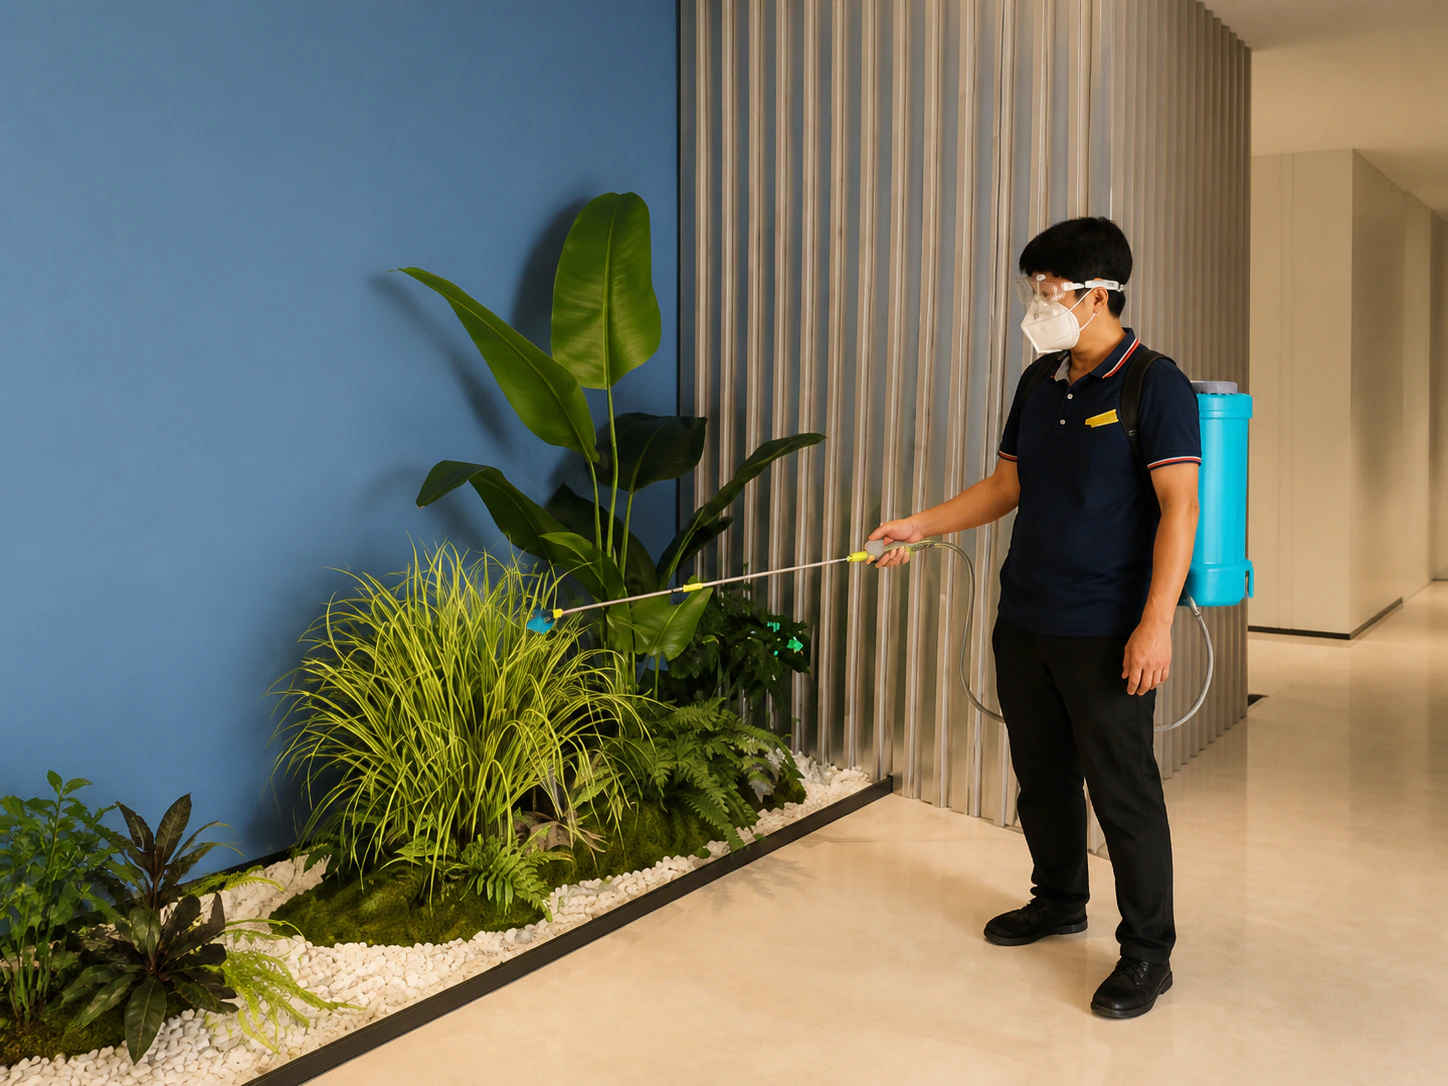
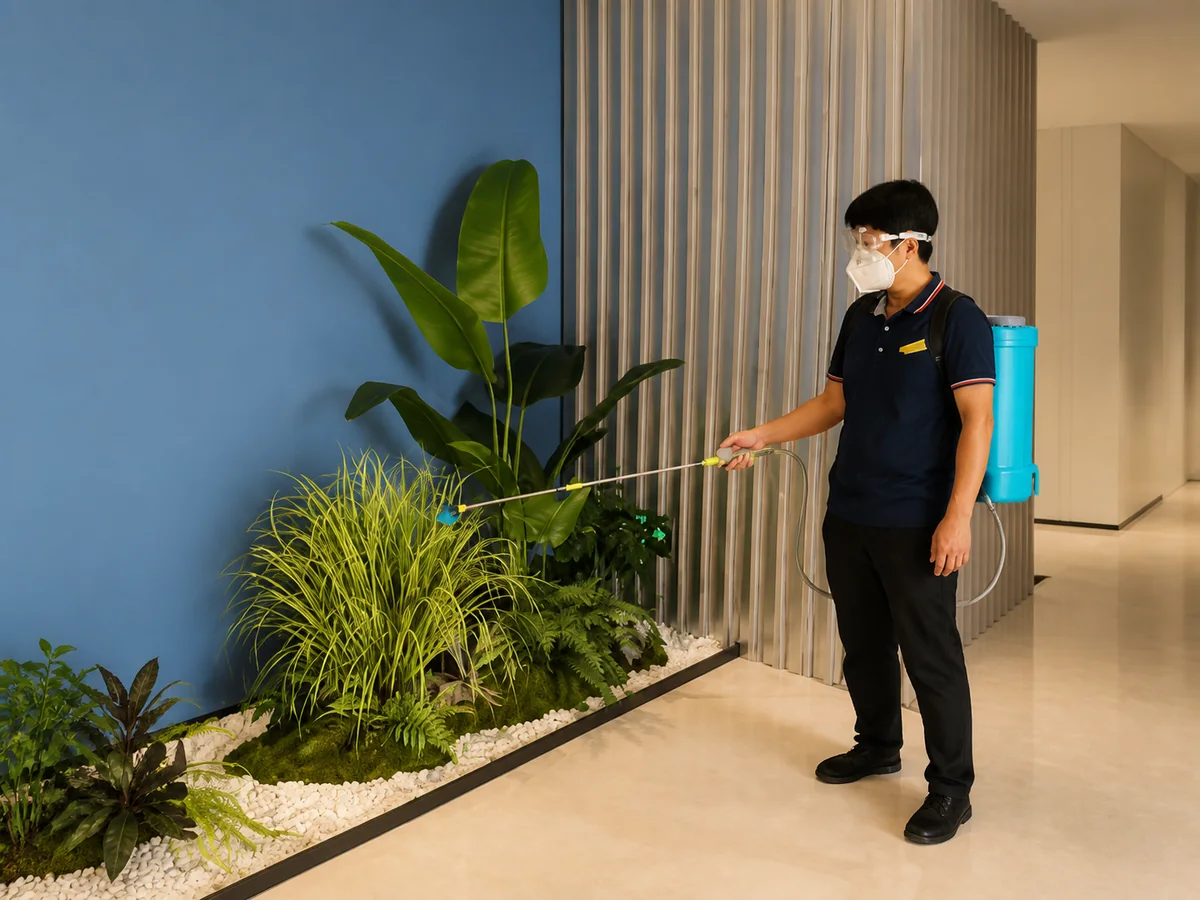
优化移动端图片与停车二维码指引

diff --git a/app/globals.css b/app/globals.css
@@ -134,9 +134,9 @@ img { display: block; max-width: 100%; }
 .security-story-copy h3,.tight-copy h3 { margin: 0 0 13px; font-size: 22px; font-weight: 600; line-height: 1.4; }
 .security-story-copy p,.tight-copy p { margin: 0; color: #4f575b; font-size: 16px; line-height: 2.05; }
 .security-photo-composition { grid-column: 2; width: 100%; margin: 0; padding: 0 7% 0 0; }
-.security-photo-composition > img { position: relative; z-index: 2; width: 100%; max-height: 620px; object-fit: cover; }
+.security-photo-composition > img { position: relative; z-index: 2; display: block; width: 100%; max-height: 620px; object-fit: cover; }
 .security-photo-composition > div { position: absolute; z-index: 1; right: 0; top: 16%; width: 34%; height: 78%; background: #ececea; }
-.monitoring-composition > img { aspect-ratio: 16/10; object-position: center; }
+.monitoring-composition > img { aspect-ratio: 3/2; object-position: center; }
 .tight-story { grid-template-columns: minmax(0,1.08fr) minmax(0,.92fr); border-top: 1px solid var(--line); }
 .tight-story .security-story-head { width: 100%; padding-top: 85px; }
 .tight-copy { grid-column: 2; grid-row: 2; width: auto; margin: 0; display: grid; gap: 30px; }
@@ -145,7 +145,7 @@ img { display: block; max-width: 100%; }
 .tight-composition > img { aspect-ratio: 4/3; object-position: center; }
 .tight-composition > div { left: 0; right: auto; top: 18%; }
 .equipment-story { border-top: 1px solid var(--line); }
-.equipment-composition > img { aspect-ratio: 16/10; object-position: center; }
+.equipment-composition > img { aspect-ratio: 3/2; object-position: center; }
 
 .service-block { display: grid; grid-template-columns: 1.35fr .85fr; min-height: 520px; margin-bottom: 42px; border: 1px solid var(--line); background: #fff; }
 .service-block.reverse { grid-template-columns: .85fr 1.35fr; }.service-block.reverse .service-photo { order: 2; }
@@ -175,7 +175,7 @@ img { display: block; max-width: 100%; }
 .route-page { padding-bottom: 115px; }.route-page .section-title { margin-bottom: 50px; }
 .route-selector { position: sticky; z-index: 15; top: 82px; display: grid; grid-template-columns: repeat(3,1fr); border: 1px solid var(--line); background: #fff; box-shadow: 0 8px 20px rgba(24,34,40,.06); }.route-selector.four-items { grid-template-columns: repeat(4,1fr); }.route-selector button { min-height: 72px; display: flex; justify-content: center; align-items: center; gap: 14px; color: var(--muted); border: 0; border-right: 1px solid var(--line); background: #fff; cursor: pointer; font-size: 14px; }.route-selector button:last-child { border: 0; }.route-selector button span { font: 600 10px/1 Arial,sans-serif; color: var(--gold); }.route-selector button.active { color: #fff; background: var(--brown); }
 .parking-access-section { margin-top: 70px; }.subsection-heading { display: grid; grid-template-columns: .7fr 1fr; align-items: end; margin-bottom: 35px; }.subsection-heading > span { grid-column: 1/-1; }.subsection-heading p { margin: 0; color: var(--muted); font-size: 13px; text-align: right; }.subsection-heading h2 { font-size: var(--heading); }
-.parking-access-grid { display: grid; grid-template-columns: repeat(2,1fr); gap: 22px; }.parking-access-grid article { padding: 24px; border: 1px solid var(--line); background: #faf9f7; }.parking-access-grid article > div { aspect-ratio: 16/7; overflow: hidden; margin-bottom: 24px; background: #e9e7e2; }.parking-access-grid img { width: 100%; height: 100%; object-fit: contain; }.parking-access-grid article > span { color: var(--gold); font: 600 9px/1 Arial,sans-serif; letter-spacing: .2em; }.parking-access-grid h3 { margin: 13px 0 19px; font-size: var(--subheading); font-weight: 400; }.parking-access-grid ol { margin: 0; padding: 0; list-style: none; counter-reset: item; }.parking-access-grid li { position: relative; min-height: 34px; padding: 8px 0 8px 34px; border-top: 1px solid var(--line); color: var(--muted); font-size: 11px; line-height: 1.6; counter-increment: item; }.parking-access-grid li::before { content: counter(item,decimal-leading-zero); position: absolute; left: 0; color: var(--brown); font: 600 9px/1.6 Arial,sans-serif; }
+.parking-access-grid { display: grid; grid-template-columns: repeat(2,1fr); gap: 22px; }.parking-access-grid article { padding: 24px; border: 1px solid var(--line); background: #faf9f7; }.parking-access-media { aspect-ratio: 16/7; overflow: hidden; margin-bottom: 24px; background: #e9e7e2; }.parking-access-grid article.has-clear-image > .parking-access-media { aspect-ratio: 16/9; }.parking-access-grid img { display: block; width: 100%; height: 100%; object-fit: contain; }.parking-clear-link { display: grid; grid-template-rows: minmax(0,1fr) 44px; width: 100%; height: 100%; color: inherit; text-decoration: none; }.parking-clear-link img { min-height: 0; }.parking-clear-cta { display: flex; align-items: center; justify-content: center; min-height: 44px; padding: 8px 12px; color: #fff; background: var(--brown); font-size: 11px; line-height: 1.35; letter-spacing: .04em; text-align: center; }.parking-clear-link:hover .parking-clear-cta { background: #6d4b38; }.parking-clear-link:focus-visible { outline: 3px solid var(--gold); outline-offset: -3px; }.parking-access-grid article > span { color: var(--gold); font: 600 9px/1 Arial,sans-serif; letter-spacing: .2em; }.parking-access-grid h3 { margin: 13px 0 19px; font-size: var(--subheading); font-weight: 400; }.parking-access-grid ol { margin: 0; padding: 0; list-style: none; counter-reset: item; }.parking-access-grid li { position: relative; min-height: 34px; padding: 8px 0 8px 34px; border-top: 1px solid var(--line); color: var(--muted); font-size: 11px; line-height: 1.6; counter-increment: item; }.parking-access-grid li::before { content: counter(item,decimal-leading-zero); position: absolute; left: 0; color: var(--brown); font: 600 9px/1.6 Arial,sans-serif; }
 .parking-zone-panel { margin-top: 70px; padding: 34px; border: 1px solid var(--line); background: #faf9f7; }
 .parking-zone-heading { display: flex; justify-content: space-between; align-items: end; gap: 50px; margin-bottom: 28px; }
 .parking-zone-heading span { display: block; margin-bottom: 14px; color: var(--gold); font: 600 10px/1.2 Arial,sans-serif; letter-spacing: .25em; }
@@ -263,7 +263,7 @@ footer { padding: 60px 0; color: rgba(255,255,255,.6); background: #101f24; }.fo
   .section-title { display: grid; gap: 20px; }.section-title > p { width: 100%; }.content-section { padding-block: 75px; }.inner-nav { grid-template-columns: 1fr 1fr; margin-top: 35px; }.inner-nav.three-items { grid-template-columns: 1fr; }.inner-nav a:nth-child(2) { border-right: 0; }.inner-nav a:nth-child(-n+2) { border-bottom: 1px solid var(--line); }.inner-nav.three-items a { border-right: 0; border-bottom: 1px solid var(--line); }
   .project-about { padding: 68px 0 34px; }.project-about::before { background-size: 50% 100%; }.project-landmark-feature { margin-inline: -19px; }.project-landmark-heading { left: 19px; top: 70px; width: 58%; min-height: 0; transform: none; }.project-landmark-heading > strong { left: -4px; top: -38px; font-size: 50px; line-height: .82; }.project-landmark-heading > span { font-size: 9px; }.project-landmark-heading h2 { font-size: 34px; }.project-landmark-photo { height: 520px; margin: 0; }.project-landmark-photo img { object-position: 68% center; }.project-landmark-stats { width: calc(100% - 20px); grid-template-columns: repeat(3,minmax(0,1fr)); margin: -56px auto 0; }.project-landmark-stats > div { min-height: 112px; gap: 10px; padding: 18px 6px; }.project-landmark-stats strong { font-size: clamp(22px,7.2vw,27px); }.project-landmark-stats small { margin-left: 3px; }.project-landmark-stats span { font-size: 10px; letter-spacing: .08em; }.project-about-copy { width: 100%; margin-top: 42px; padding-top: 22px; border-top: 1px solid var(--line); }.project-about-copy p { font-size: 14px; line-height: 2; text-align: left; }
   .building-section { padding: 40px 0 80px; }.building-welcome { grid-template-columns: 1fr; gap: 35px; }.building-welcome p { width: 80%; }.building-welcome > div:last-child::after { font-size: 76px; top: -30px; }.building-card { grid-template-columns: 1fr; border-radius: 16px; }.building-visual { min-height: 620px; padding-inline: 24px; }.tower-wrap { height: 500px; }.building-overview { padding: 44px 22px 35px; }.floor-row,.office-title,.refuge-row { grid-template-columns: 1.1fr 1.5fr 1fr; padding-inline: 8px; }.office-zones { grid-template-columns: 1fr 1fr; }.office-zones div:nth-child(2) { border-right: 0; }.office-zones div:nth-child(-n+2) { border-bottom: 1px solid #d9e8f6; }
-  .security-story,.tight-story { grid-template-columns: 1fr; row-gap: 36px; padding-block: 80px; }.security-watermark { left: 2%; top: 30px; font-size: 52px; }.security-story-head,.tight-story .security-story-head { grid-column: 1; width: 100%; margin-left: 0; padding: 72px 0 0; }.security-story-head h2 { font-size: 30px; }.security-story-copy,.tight-copy { grid-column: 1; grid-row: auto; width: 100%; margin: 0; gap: 30px; }.security-story-copy p,.tight-copy p { font-size: 14px; }.security-photo-composition,.tight-composition { grid-column: 1; grid-row: auto; width: 100%; margin: 0; padding: 0 8% 0 0; }.tight-composition { padding: 0 0 0 8%; }.security-photo-composition > div { width: 38%; }
+  .security-story,.tight-story { grid-template-columns: 1fr; row-gap: 36px; padding-block: 80px; }.security-watermark { left: 2%; top: 30px; font-size: 52px; }.security-story-head,.tight-story .security-story-head { grid-column: 1; width: 100%; margin-left: 0; padding: 72px 0 0; }.security-story-head h2 { font-size: 30px; }.security-story-copy,.tight-copy { grid-column: 1; grid-row: auto; width: 100%; margin: 0; gap: 30px; }.security-story-copy p,.tight-copy p { font-size: 14px; }.security-photo-composition,.tight-composition { grid-column: 1; grid-row: auto; width: 100%; margin: 0; padding: 0; }.security-photo-composition > div { width: 38%; }
   .service-block,.service-block.reverse,.service-block.compact-service { grid-template-columns: 1fr; min-height: 0; }.service-block.reverse .service-photo { order: 0; }.service-photo { min-height: 310px; }.premium-photo { min-height: 0; aspect-ratio: 16/10; }.compact-service .service-photo { min-height: 0; }.sanitation-photo { height: 290px; margin: 20px 18px 0; }.service-text { padding: 38px 26px; }.rainy-section { margin-top: 70px; padding: 75px 0; }.rainy-grid { grid-template-columns: 1fr; gap: 13px; }.rainy-grid article { min-height: 210px; grid-template-columns: 46% 54%; }.rainy-grid article > div { min-height: 210px; }.rainy-grid h3 { margin: 24px 16px 8px; }.rainy-grid p { padding: 0 16px 20px; }
   .route-page { padding-bottom: 80px; }.route-selector { top: 68px; display: flex; overflow-x: auto; grid-template-columns: none; scrollbar-width: none; }.route-selector.four-items { display: grid; grid-template-columns: repeat(2,minmax(0,1fr)); overflow: visible; }.route-selector::-webkit-scrollbar { display: none; }.route-selector button { flex: 0 0 45%; min-height: 60px; border-right: 1px solid var(--line); border-bottom: 0; white-space: nowrap; }.route-selector.four-items button { flex: none; white-space: normal; }.route-selector.four-items button:nth-child(2n) { border-right: 0; }.route-selector.four-items button:nth-child(-n+2) { border-bottom: 1px solid var(--line); }.route-selector button:last-child { border-right: 0; }.subsection-heading { grid-template-columns: 1fr; gap: 12px; }.subsection-heading p { text-align: left; }.parking-access-grid { grid-template-columns: 1fr; }.route-detail { margin-inline: -19px; padding: 40px 19px; }.route-detail-head { grid-template-columns: 1fr auto; gap: 20px; }.route-detail-head > p { grid-column: 1/-1; grid-row: 2; }.route-detail-head > div:last-child { grid-column: 2; grid-row: 1; }.route-slider article { flex-basis: calc(100vw - 52px); }.route-status { align-items: flex-start; flex-direction: column; }
   .parking-zone-panel { margin-top: 50px; padding: 22px 18px; }.parking-zone-heading { display: grid; gap: 15px; margin-bottom: 22px; }.parking-zone-heading p { width: 100%; text-align: left; }.parking-zone-selector { grid-template-columns: 1fr 1fr; }.parking-zone-selector button { min-height: 86px; }.parking-zone-selector button:nth-child(2) { border-right: 0; }.parking-zone-selector button:nth-child(-n+2) { border-bottom: 1px solid var(--line); }.parking-level-selector { display: grid; grid-template-columns: 1fr 1fr; }.parking-level-selector button { min-width: 0; padding-inline: 12px; }.parking-zone-panel + .route-detail { margin-top: 24px; }

diff --git a/app/routes/page.tsx b/app/routes/page.tsx
@@ -8,9 +8,10 @@ import { PageHero, SectionTitle, SiteFooter, SiteHeader } from "../site-chrome";
 
 type RouteSlide = readonly [image: string, title: string, text: string];
 type RouteGroup = { label: string; eyebrow: string; intro: string; note: string; slides: readonly RouteSlide[] };
+type ParkingAccessItem = { title: string; eyebrow: string; image: string; fullImage?: string; items: readonly string[] };
 
 function parkingStep(number: number, title: string, text: string): RouteSlide {
-  return [`/parking-route-step-${String(number).padStart(2, "0")}-full.webp`, title, text];
+  return [`/parking-route-step-${String(number).padStart(2, "0")}.webp`, title, text];
 }
 
 const b1LowMiddleSlides = [
@@ -92,7 +93,7 @@ const routeLabels: Record<RouteKey, string> = {
 };
 const routeKeys: RouteKey[] = ["access", "parking", "freight", "takeout"];
 
-const parkingAccess = [
+const parkingAccess: readonly ParkingAccessItem[] = [
   {
     title: "访客与闸机通行",
     eyebrow: "VISITOR & ACCESS",
@@ -109,12 +110,14 @@ const parkingAccess = [
     title: "停车月卡申请",
     eyebrow: "PARKING APPLY",
     image: "/parking-apply.webp",
+    fullImage: "/parking-apply.jpg",
     items: ["进入“爱泊客”小程序", "选择“横琴华发商都停车场”", "上传资料并等待管家审核", "审核通过后在线缴费，建议提前两个工作日申请"],
   },
   {
-    title: "停车月卡续费",
-    eyebrow: "PARKING RENEWAL",
+    title: "停车月卡缴费",
+    eyebrow: "PARKING PAYMENT",
     image: "/parking-renewal.webp",
+    fullImage: "/parking-renewal.jpg",
     items: ["在月卡到期前进入“长租套餐”完成续费", "逾期后原套餐自动失效", "逾期需结清临停费用并重新提交月租申请", "已生效费用不予退款，不可中途更换车牌"],
   },
 ];
@@ -198,7 +201,7 @@ export default function RoutesPage() {
   return (
     <main>
       <SiteHeader active="routes" />
-      <PageHero eyebrow="ROUTE GUIDANCE" title="路线指引" subtitle="清晰抵达，从容通行" image="/routes-hero-security.jpg" imageClassName="route-security-hero" index="03" variant="large" />
+      <PageHero eyebrow="ROUTE GUIDANCE" title="路线指引" subtitle="清晰抵达，从容通行" image="/routes-hero-security.webp" imageClassName="route-security-hero" index="03" variant="large" />
 
       <section className="content-section route-page page-shell">
         <SectionTitle eyebrow="SELECT A ROUTE" title="选择您要查看的路线" intro="点击分类查看对应内容；分步路线支持左右滑动浏览。" />
@@ -206,7 +209,12 @@ export default function RoutesPage() {
 
         {active === "access" && <section className="parking-access-section">
           <div className="subsection-heading"><span>PARKING & ACCESS</span><h2>停车与通行</h2><p>从来访报备到月卡办理，常用事项集中查看。</p></div>
-          <div className="parking-access-grid">{parkingAccess.map((item) => <article key={item.title}><div><img src={asset(item.image)} alt={item.title} loading="lazy" decoding="async" /></div><span>{item.eyebrow}</span><h3>{item.title}</h3><ol>{item.items.map((text) => <li key={text}>{text}</li>)}</ol></article>)}</div>
+          <div className="parking-access-grid">{parkingAccess.map((item) => <article className={item.fullImage ? "has-clear-image" : undefined} key={item.title}>
+            <div className="parking-access-media">{item.fullImage
+              ? <a className="parking-clear-link" href={asset(item.fullImage)} target="_blank" rel="noreferrer" aria-label={`${item.title}：在新窗口打开清晰原图`}><img src={asset(item.image)} alt={`${item.title}流程图，含小程序码`} loading="lazy" decoding="async" /><span className="parking-clear-cta">查看清晰原图 · 长按识别小程序码 ↗</span></a>
+              : <img src={asset(item.image)} alt={item.title} loading="lazy" decoding="async" />}</div>
+            <span>{item.eyebrow}</span><h3>{item.title}</h3><ol>{item.items.map((text) => <li key={text}>{text}</li>)}</ol>
+          </article>)}</div>
         </section>}
 
         {active === "parking" && <section className="parking-zone-panel" aria-label="选择停车办公分区">

diff --git a/app/page.tsx b/app/page.tsx
@@ -30,7 +30,7 @@ export default function ProjectPage() {
               <h2>关于横琴天啟 T3</h2>
             </div>
             <div className="project-landmark-photo">
-              <img src={asset("/t3-building.jpg")} alt="横琴天啟 T3 建筑主体与金融岛景观" />
+              <img src={asset("/t3-building.webp")} alt="横琴天啟 T3 建筑主体与金融岛景观" width="1600" height="1039" decoding="async" />
             </div>
           </div>
           <div className="project-landmark-stats" aria-label="横琴天啟 T3 建筑数据">
@@ -81,7 +81,7 @@ export default function ProjectPage() {
             <article><h3>实时监控</h3><p>7×24 小时无间断安全管理，实时掌握楼宇安全动态。</p></article>
             <article><h3>安全管理</h3><p>严格实施人员、物品出入管理，定期开展消防安全培训与检查服务，确保人身与财产安全。</p></article>
           </div>
-          <div className="security-photo-composition monitoring-composition"><img src={asset("/security-monitoring-v2.png")} alt="T3 监控中心实时安全管理" loading="lazy" decoding="async" /><div aria-hidden="true" /></div>
+          <div className="security-photo-composition monitoring-composition"><img src={asset("/security-monitoring-v2.webp")} alt="T3 监控中心实时安全管理" width="836" height="557" loading="eager" decoding="async" /><div aria-hidden="true" /></div>
         </div>
 
         <div className="page-shell tight-story">
@@ -92,7 +92,7 @@ export default function ProjectPage() {
             <article><h3>风险管理</h3><p>建立完善的风险管理体系，科学识别并有效管控日常运营风险，保障安全办公环境。</p></article>
             <article><h3>应急预案</h3><p>建立科学的应急预案体系和分级响应机制，确保突发情况处理高效有序。</p></article>
           </div>
-          <div className="security-photo-composition tight-composition"><img src={asset("/tight-security-management.jpg")} alt="T3 安管团队开展防暴应急演练" loading="lazy" decoding="async" /><div aria-hidden="true" /></div>
+          <div className="security-photo-composition tight-composition"><img src={asset("/tight-security-management.webp")} alt="T3 安管团队开展防暴应急演练" width="1200" height="900" loading="eager" decoding="async" /><div aria-hidden="true" /></div>
         </div>
 
         <div className="page-shell security-story equipment-story">
@@ -101,7 +101,7 @@ export default function ProjectPage() {
           <div className="security-story-copy">
             <article><h3>守护企业生命线</h3><p>电力和网络被视为企业的“生命线”。服务中心建立起 24 小时值守机制。在工程端，重点保障电力和动力设施持续稳定输出，避免因供电波动影响跨时区直播和服务器运行。</p></article>
           </div>
-          <div className="security-photo-composition equipment-composition"><img src={asset("/equipment-safety.png")} alt="工程人员开展电力设备安全检查" loading="lazy" decoding="async" /><div aria-hidden="true" /></div>
+          <div className="security-photo-composition equipment-composition"><img src={asset("/equipment-safety.webp")} alt="工程人员开展电力设备安全检查" width="839" height="557" loading="eager" decoding="async" /><div aria-hidden="true" /></div>
         </div>
       </section>
 

diff --git a/app/site-chrome.tsx b/app/site-chrome.tsx
@@ -14,7 +14,7 @@ export function SiteHeader({ active }: { active: Section }) {
   return (
     <header className="site-header">
       <a className="site-brand" href={pageHref("/")} onClick={close} aria-label="横琴天啟 T3 首页">
-        <span className="site-brand-mark"><img src={asset("/t3-building-logo-transparent.png")} alt="" /></span>
+        <span className="site-brand-mark"><img src={asset("/t3-building-logo-transparent.webp")} alt="" width="256" height="542" decoding="async" /></span>
         <span><strong>横琴天啟 T3</strong><small>PROPERTY SERVICE</small></span>
       </a>
       <button className="menu-toggle" type="button" onClick={() => setOpen(!open)} aria-expanded={open} aria-label="打开导航"><span /><span /></button>
@@ -50,7 +50,7 @@ export function SiteHeader({ active }: { active: Section }) {
 export function PageHero({ eyebrow, title, subtitle, image, index, variant, imageClassName }: { eyebrow: string; title: string; subtitle?: string; image: string; index: string; variant?: "large"; imageClassName?: string }) {
   return (
     <section className={`page-hero ${variant === "large" ? "home-hero" : ""}`}>
-      <img className={imageClassName} src={asset(image)} alt="" />
+      <img className={imageClassName} src={asset(image)} alt="" decoding="async" fetchPriority="high" />
       <div className="page-hero-shade" />
       <div className="page-hero-copy page-shell">
         <span>{eyebrow}</span>
@@ -70,7 +70,7 @@ export function SiteFooter() {
   return (
     <footer>
       <div className="page-shell footer-inner">
-        <a className="footer-brand" href={pageHref("/")}><span className="footer-logo"><img src={asset("/t3-building-logo-transparent.png")} alt="" /></span><span>横琴天啟 T3<br /><small>PROPERTY SERVICE</small></span></a>
+        <a className="footer-brand" href={pageHref("/")}><span className="footer-logo"><img src={asset("/t3-building-logo-transparent.webp")} alt="" width="256" height="542" loading="lazy" decoding="async" /></span><span>横琴天啟 T3<br /><small>PROPERTY SERVICE</small></span></a>
         <p>珠海华发物业服务有限公司</p>
         <p>© 2026 HUAFA PROPERTY. ALL RIGHTS RESERVED.</p>
       </div>

diff --git a/app/services/page.tsx b/app/services/page.tsx
@@ -22,12 +22,12 @@ export default function ServicesPage() {
       </section>
 
       <section className="service-block page-shell" id="premium">
-        <div className="service-photo premium-photo"><img src={asset("/premium-supplies-v2.webp")} alt="T3 大堂臻品物资箱" /><span>01</span></div>
+        <div className="service-photo premium-photo"><img src={asset("/premium-supplies-v2.webp")} alt="T3 大堂臻品物资箱" width="1400" height="800" loading="lazy" decoding="async" /><span>01</span></div>
         <div className="service-text"><span>PREMIUM SERVICE</span><h2>甄品服务</h2><p>大堂臻品物资箱为客户提供干湿纸巾、女性用品、雨衣、针线包、后跟贴、漱口水、一次性毛巾、吹风机、充电宝、测温枪与日常维修工具等暖心物资。</p><ul><li>应急物品随取随用</li><li>便民物品登记借用</li><li>一楼大堂统一提供</li></ul></div>
       </section>
 
       <section className="service-block reverse compact-service page-shell" id="sanitation">
-        <div className="service-photo sanitation-photo"><img src={asset("/sanitation-service-single.webp")} alt="华发物业开展公共区域日常消杀" loading="lazy" decoding="async" /><span>02</span><div><b>日常消杀</b><small>公共区域规范作业</small></div></div>
+        <div className="service-photo sanitation-photo"><img src={asset("/sanitation-service-single.webp")} alt="华发物业开展公共区域日常消杀" width="1200" height="900" loading="lazy" decoding="async" /><span>02</span><div><b>日常消杀</b><small>公共区域规范作业</small></div></div>
         <div className="service-text"><span>SANITATION SERVICE</span><h2>消杀服务</h2><p>围绕公共区域、电梯轿厢、卫生间和高频接触点位开展周期性清洁消杀，结合日常巡检与专项作业，保持楼宇环境整洁安心。</p><ul><li>公共区域定期消杀</li><li>重点点位专项清洁</li><li>作业过程记录留档</li></ul></div>
       </section>
 

diff --git a/app/contact/page.tsx b/app/contact/page.tsx
@@ -35,7 +35,7 @@ export default function ContactPage() {
   return (
     <main>
       <SiteHeader active="contact" />
-      <PageHero eyebrow="CONTACT US" title="联系我们" subtitle="专业、可靠，始终在场" image="/t3-building.jpg" index="04" />
+      <PageHero eyebrow="CONTACT US" title="联系我们" subtitle="专业、可靠，始终在场" image="/t3-building.webp" index="04" />
 
       <section className="content-section team-section page-shell">
         <SectionTitle eyebrow="PROPERTY TEAM" title="您的专属物业团队" intro="从大堂接待、楼层服务到选品中心运营，我们以清晰分工和一致标准响应每一项需要。" />
